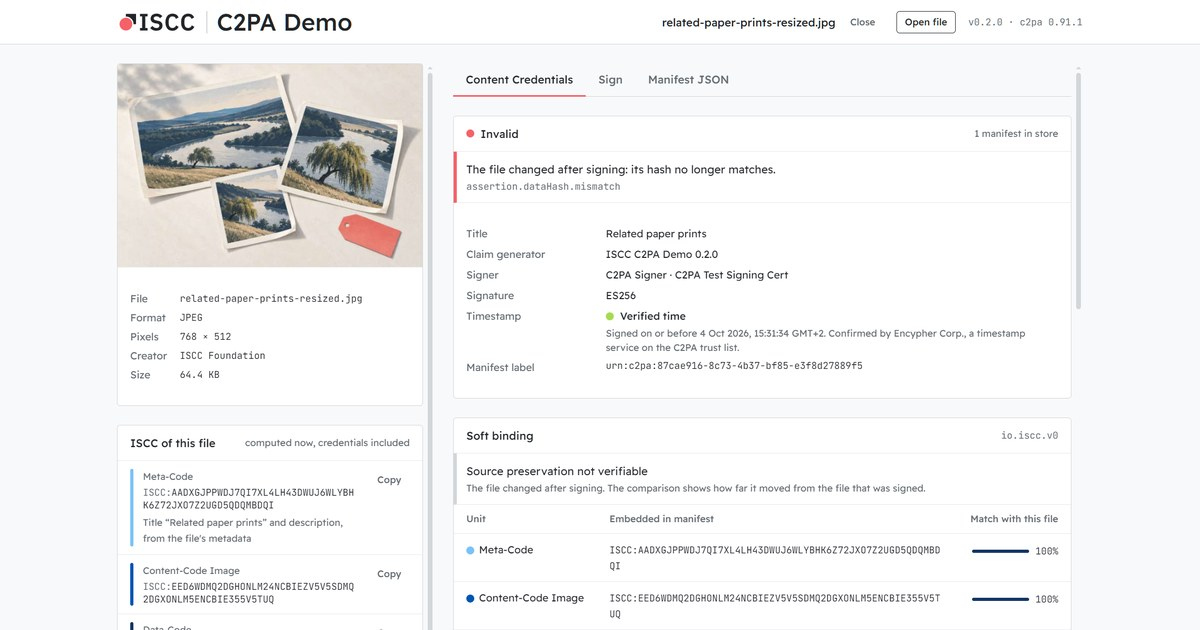
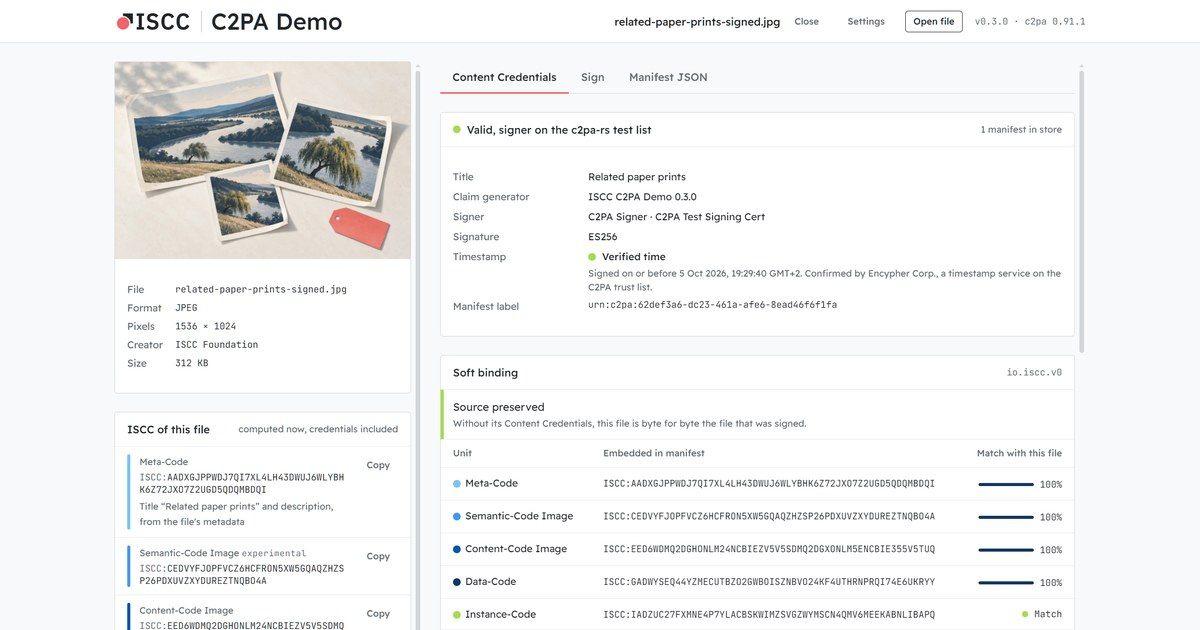
docs: show a valid signed file with its Semantic-Code on the landing page
The hero and the social card show the signed sample itself: Valid, a
verified timestamp, source preserved and every unit matching, the
Semantic-Code Image included. The captions give what a re-encoded and a
cropped copy score: Content-Code 100% and 81%, Semantic-Code 99% and
95%. The landing page lists the Semantic-Code among the units, notes
that it is experimental and off by default, and names rten.

diff --git a/site/index.html b/site/index.html
@@ -37,12 +37,12 @@
         <span class="label version">{{version_label}}</span>
       </div>
       <figure class="shot">
-        <img src="assets/changed.webp" width="1898" height="1374" alt="The app with a changed copy of a signed image open: the Content Credentials tab says Invalid because the file changed after signing, and the ISCC soft binding still matches the Content-Code Image at 100 percent, while the byte-based Data-Code and Instance-Code no longer match.">
+        <img src="assets/signed.webp" width="1968" height="1386" alt="The app with a signed image open: the Content Credentials tab says Valid with a verified timestamp, the source is preserved, and every ISCC unit in the soft binding matches the file: Meta-Code, Semantic-Code Image, Content-Code Image and Data-Code at 100 percent, and the Instance-Code exactly.">
       </figure>
-      <p class="caption">A signed image, re-encoded at half size, with its Content Credentials copied back in. C2PA
-        now says <b>Invalid</b>: the bytes changed. The ISCC Content-Code still matches the pixels at <b>100%</b>, and
-        at 81% after a crop, where unrelated images score around 50%. The credentials stay invalid, but the ISCC tells
-        you which content they were made for.</p>
+      <p class="caption">A signed image, opened again. C2PA says <b>Valid</b>, and every ISCC unit in its soft binding
+        matches the file. Re-encode it at half size and the C2PA hash breaks, but the Content-Code still matches at
+        <b>100%</b> and the experimental Semantic-Code at 99%. Crop 5% off each side as well and they score 81% and 95%,
+        where unrelated images score around 50%.</p>
     </section>
 
     <section class="wrap grid3" aria-label="What you can do">
@@ -96,10 +96,13 @@
           <a href="https://ieps.iscc.codes/iep-0020/">IEP-0020</a> defines.</p>
         <p>Each unit is compared as a percentage: unrelated content scores around 50%, and the closer to 100%, the
           closer the content. The byte-based Data-Code and Instance-Code drop as soon as a file is re-encoded; that is
-          their job. The Content-Code follows the image, the text, the sound or the video.</p>
+          their job. The Content-Code follows the image, the text, the sound or the video. The Semantic-Code follows
+          what an image shows or what a text means.</p>
       </div>
       <ol class="units" aria-label="ISCC units in the soft binding">
         <li class="meta"><b>Meta-Code</b><span>From title and description, which the manifest also stores.</span></li>
+        <li class="semantic"><b>Semantic-Code</b><span>From what a picture shows or what a text says, through crops and
+          translations. Experimental, and off until you switch it on.</span></li>
         <li class="content"><b>Content-Code</b><span>From the pixels, the text, the sound or the video frames.
           Usually stays close through resizing and re-encoding.</span></li>
         <li class="data"><b>Data-Code</b><span>From the raw bytes. Survives small byte edits, not re-encoding.</span></li>
@@ -114,7 +117,8 @@
         to end with <a href="https://github.com/contentauth/c2pa-rs">c2pa-rs</a>, the open source C2PA SDK of the
         Content Authenticity Initiative, on 24&nbsp;file formats.</p>
       <p>ISCC is an ISO standard with an open source reference implementation, so you can calculate the codes again
-        and compare. The tests check every unit of this app against iscc-core and iscc-sdk, bit for bit.</p>
+        and compare. The tests check every unit of this app against iscc-core and iscc-sdk, bit for bit; the
+        experimental Semantic-Codes come within a few bits of iscc-sci and iscc-sct.</p>
     </section>
 
     <section class="wrap" id="download">
@@ -170,8 +174,11 @@
         <li><b>Video needs ffmpeg, downloaded once.</b> The first time you open a video, the app offers to download
           the ffmpeg build that iscc-sdk uses and checks it before it runs. Without it, a video still shows its
           Content Credentials, Data-Code and Instance-Code.</li>
-        <li><b>Your files stay on your computer.</b> Inspecting works offline, once ffmpeg is there for video. When you
-          sign, only a hash of the signature goes to a timestamp service.</li>
+        <li><b>Semantic-Codes are experimental and off until you switch them on.</b> Settings switches the
+          Semantic-Code Image and the Semantic-Code Text on separately; switching one on downloads its model once
+          (100 MB for images, 142 MB for text). Neural networks compute them on your computer.</li>
+        <li><b>Your files stay on your computer.</b> Inspecting works offline, once ffmpeg and the models are there.
+          When you sign, only a hash of the signature goes to a timestamp service.</li>
       </ul>
     </section>
 
@@ -181,7 +188,9 @@
         <h2>Rust, Tauri and a little TypeScript</h2>
         <p>The core is Rust: <a href="https://crates.io/crates/c2pa">c2pa-rs</a> for Content Credentials,
           <a href="https://crates.io/crates/iscc-lib">iscc-lib</a> for ISCC, pure Rust readers for most formats,
-          the bundled pdfium library for PDF, and ffmpeg for video, which the app downloads on first use. The same
+          the bundled pdfium library for PDF, ffmpeg for video, and <a href="https://github.com/robertknight/rten">rten</a>
+          with compressed iscc-sci and iscc-sct models for the Semantic-Codes; the app downloads ffmpeg and the models
+          on first use. The same
           core also builds as <code>c2pa-iscc</code>, a command-line tool that prints JSON, for scripts and agents.
           Both are Apache-2.0.</p>
         <p class="small">Needs Rust 1.96 or later, Node 22.12 or later, pnpm and uv. On Linux also the

diff --git a/site/style.css b/site/style.css
@@ -14,6 +14,7 @@
   --rule: #D2D6D9;
   --blue: #0054B2;
   --unit-meta: #7AC2F7;
+  --unit-semantic: #4596F5;
   --unit-content: #0054B2;
   --unit-data: #123663;
   --unit-instance: #A6DB50;
@@ -92,6 +93,7 @@ main > section.hero { background: none; padding-top: 48px; }
 .units li { display: grid; grid-template-columns: 160px 1fr; gap: 16px; padding: 16px; background: var(--white); border: 1px solid var(--rule); border-left: 8px solid; border-radius: var(--radius); font-size: 16px; line-height: 24px; }
 .units b { font-family: var(--font-mono); font-weight: 400; font-size: 14px; }
 .units .meta { border-left-color: var(--unit-meta); }
+.units .semantic { border-left-color: var(--unit-semantic); }
 .units .content { border-left-color: var(--unit-content); }
 .units .data { border-left-color: var(--unit-data); }
 .units .instance { border-left-color: var(--unit-instance); }

diff --git a/README.md b/README.md
@@ -22,13 +22,13 @@
   <a href="#help-shape-iep-0020">IEP-0020</a>
 </p>
 
-![A signed image, re-encoded at half size with its Content Credentials copied back in. C2PA reports the credentials as invalid because the file changed after signing; the ISCC soft binding still matches the Content-Code at 100 percent, while the byte-based Data-Code and Instance-Code no longer match.](site/assets/changed.webp)
+![A signed image in the app: its Content Credentials are valid with a verified timestamp, the source is preserved, and every ISCC unit in the soft binding matches the file: Meta-Code, Semantic-Code Image, Content-Code Image and Data-Code at 100 percent, and the Instance-Code exactly.](site/assets/signed.webp)
 
-<p align="center"><sub>A signed image, re-encoded at half size, with its Content Credentials copied
-back in. C2PA now says <b>Invalid</b> (<code>assertion.dataHash.mismatch</code>): the bytes changed.
-The ISCC Content-Code still matches the pixels at <b>100%</b>, and at 81% after a crop, where
-unrelated images score around 50%. The credentials stay invalid, but the ISCC tells you which
-content they were made for.</sub></p>
+<p align="center"><sub>A signed image, opened again. C2PA says <b>Valid</b>, and every ISCC unit in its
+soft binding matches the file. Re-encode it at half size and the C2PA hash breaks
+(<code>assertion.dataHash.mismatch</code>), but the Content-Code still matches at <b>100%</b> and the
+experimental Semantic-Code at 99%. Crop 5% off each side as well and they score 81% and 95%, where
+unrelated images score around 50%.</sub></p>
 
 Content Credentials tell you where a file comes from. C2PA ties them to the file by a hash of its
 exact bytes. Resize or re-encode the file and the hash no longer matches; strip the manifest and
@@ -58,8 +58,8 @@ implementation of the open standard, and compare.
 ## What goes into the manifest
 
 The app adds a `c2pa.soft-binding` assertion. Its value is an ISCC-SEQ: the ISCC units of the file
-(here Meta-Code, Content-Code Image, Data-Code and Instance-Code), each a header and a 256-bit
-body, concatenated. CBOR stores the value as a byte string; the JSON view shows it in base64.
+(for an image: Meta-Code, Content-Code Image, Data-Code and Instance-Code, plus the Semantic-Code
+Image once it is switched on), each a header and a 256-bit body, concatenated. CBOR stores the value as a byte string; the JSON view shows it in base64.
 
 ```json
 {
